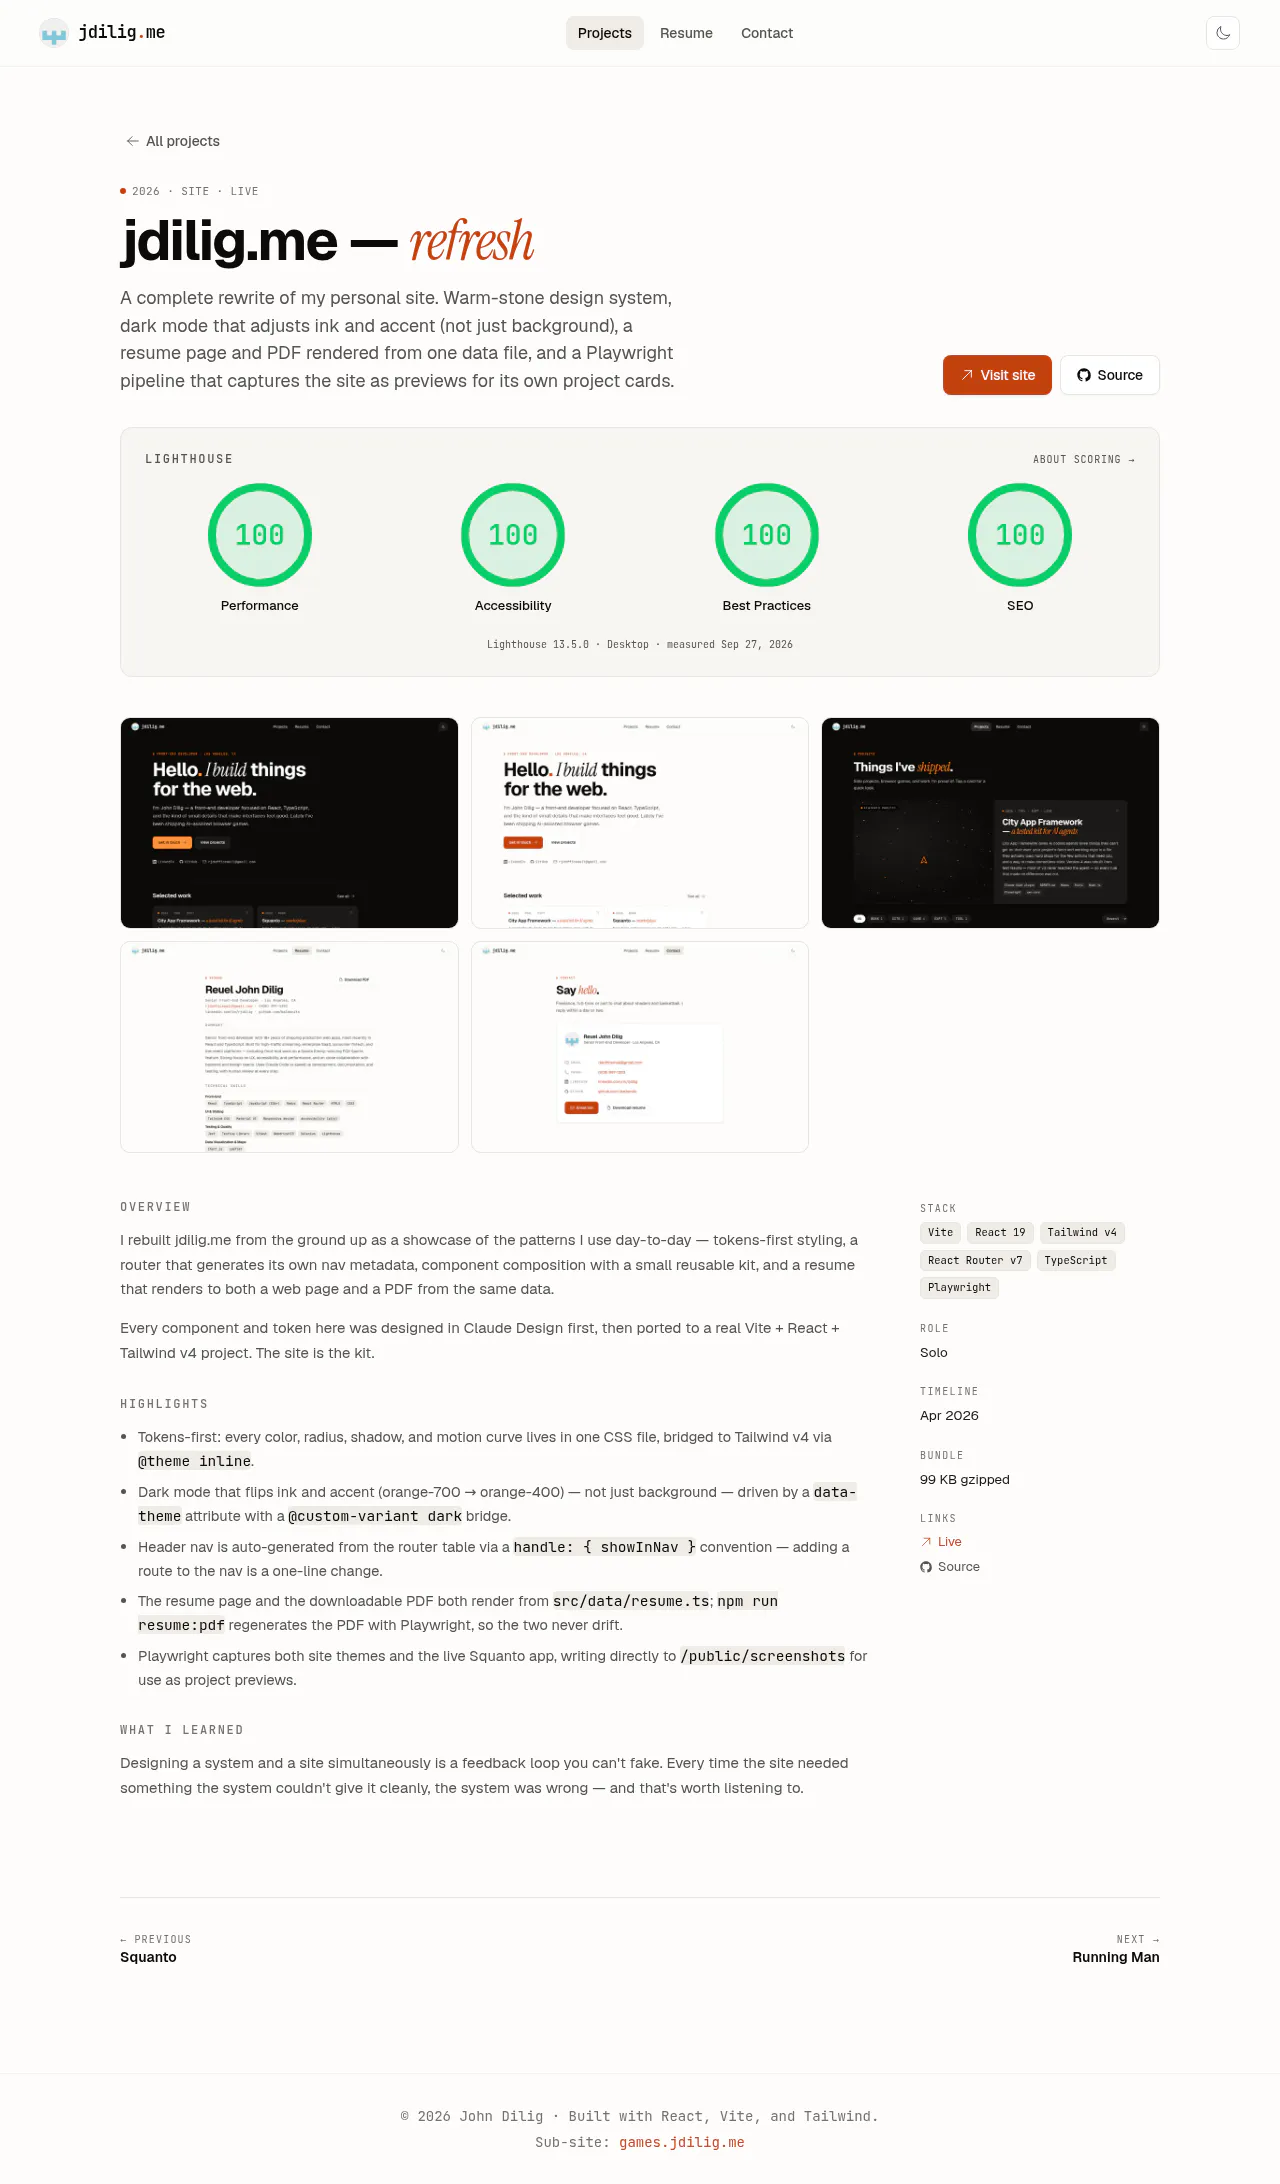
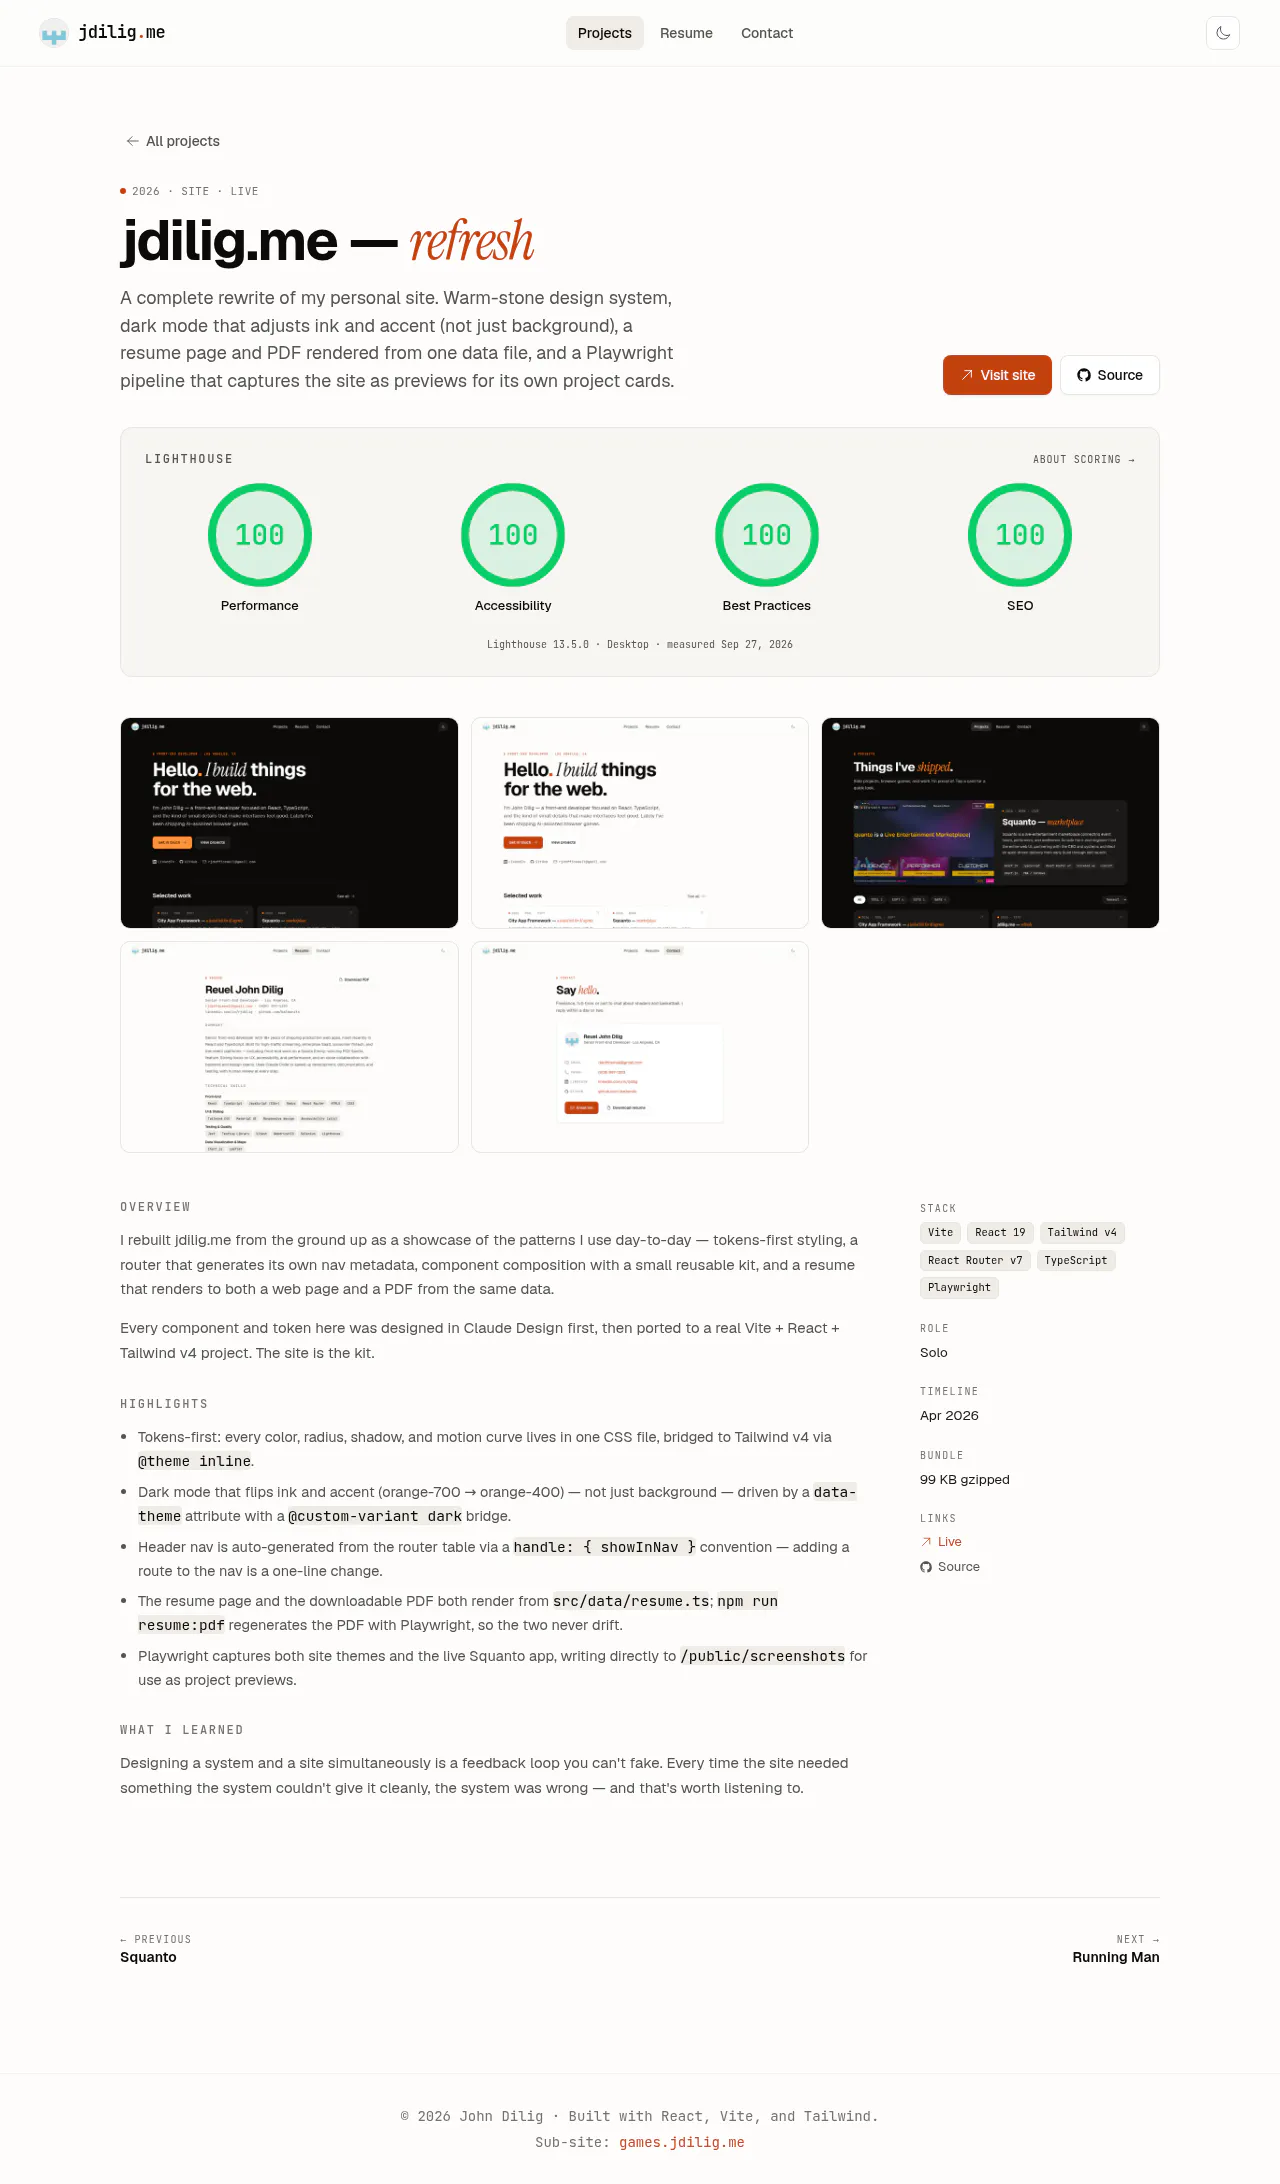
Feature Squanto again; keep City App Framework on the site
John asked to keep Squanto as the featured project. City App Framework
stays visible and now sits first in the grid on /projects.

Retook the Projects screenshots (light, dark) and the jdilig.me project
page shot, which shows a thumbnail of Projects.

Claude-Session: https://claude.ai/code/session_01NJcaYBv3Qm8KUHS4kHoaP5

Changed region(s): [[0.6562, 0.3425, 0.875, 0.4359]]

diff --git a/src/data/projects.ts b/src/data/projects.ts
@@ -123,7 +123,6 @@ export const ALL_PROJECTS: Project[] = [
     ],
     role: 'Author',
     timeline: 'Aug 2025 — Present',
-    featured: true,
     overview: [
       "City App Framework is a small kit for building apps with AI coding agents, shipped as a Claude Code plugin. Running `/city-app:setup` in a project installs a 28-line AGENTS.md — the project's facts, filled in from the repo, plus an 8-line working agreement — a one-line CLAUDE.md that makes Claude load it, and two hooks: a guard that asks before a new dependency or deleting a test and blocks force-push, production deploys, and publishing, and a test gate that won't let the agent finish with failing or newly skipped tests. The AGENTS.md part also works with Codex, Cursor, Copilot, and Grok.",
       "Version 4 is a rebuild. A test harness runs headless Claude Code on a small app and scores every run with fixed checks, and it showed that most of v3 never reached the agent: its CLAUDE.md pointer stopped Claude from loading AGENTS.md automatically, and the universal rules sat behind a link no agent opened (0 of 25 runs). Rules against overbuilding and new dependencies made no difference either — none of 285 runs added a dependency, with or without them, even when asked for a web server. So v4 cuts every rule that didn't change behavior and puts anything that must never happen in a hook.",
@@ -180,6 +179,7 @@ export const ALL_PROJECTS: Project[] = [
     links: {
       live: 'https://squanto.app/',
     },
+    featured: true,
     previewImage: '/screenshots/squanto-home.webp',
     gallery: [
       {

diff --git a/BACKLOG.md b/BACKLOG.md
@@ -76,7 +76,7 @@ The Sept 2026 responsive pass shipped the core fixes (see "Recently shipped"). H
 
 ## Recently shipped
 
-- **City App Framework back, rewritten for v4 (Sept 28, 2026).** Its project page now describes v4: a Claude Code plugin (setup, hooks, lessons, rule testing, front-end checks) and the test results it was rebuilt from. Every claim comes from the framework repo's README, `docs/findings-2026-09.md`, and decision 001. v4 has no website, so the page links only to the source, the old whitepaper-site screenshot and its capture step are gone, and the featured card shows the starfield placeholder. It's the featured project again (Squanto no longer is) and back in the sitemap; the site screenshots were retaken.
+- **City App Framework back, rewritten for v4 (Sept 28, 2026).** Its project page now describes v4: a Claude Code plugin (setup, hooks, lessons, rule testing, front-end checks) and the test results it was rebuilt from. Every claim comes from the framework repo's README, `docs/findings-2026-09.md`, and decision 001. v4 has no website, so the page links only to the source, the old whitepaper-site screenshot and its capture step are gone, and the featured card shows the starfield placeholder. It's back in the sitemap, and Squanto stays the featured project (John's call, Sept 28, 2026); the site screenshots were retaken.
 - **Swipe in the gallery lightbox (Sept 27, 2026).** On touch screens, swipe left / right to page through images; taps, short moves, vertical moves and pinches don't page. The dialog sets `touch-action: pan-y pinch-zoom`: in Chrome's touch emulation, without it a right swipe in the lightbox took the browser back a page (the browser's own history gesture). Tested with emulated touch in headless Chromium, not on a real phone.
 - **Link preview image (Sept 27, 2026).** Shared links now show `public/og-image.png` (1200×630: name, role, location, one-line summary, in the site's dark theme and fonts) instead of the small logo; Twitter/X uses the large card. `npm run og:image` regenerates it from `src/data/profile.ts`; a unit test checks `index.html` points at it at the right size.
 - **Site screenshots retaken (Sept 27, 2026).** The jdilig.me gallery now shows Squanto as the featured project (City App Framework is hidden) and the refreshed Lighthouse scores. The capture spec now writes each thumbnail right after its capture and captures the two project pages last, so one run is consistent. Also fixed the jdilig.me case study: the light accent is orange-700, not orange-600.
